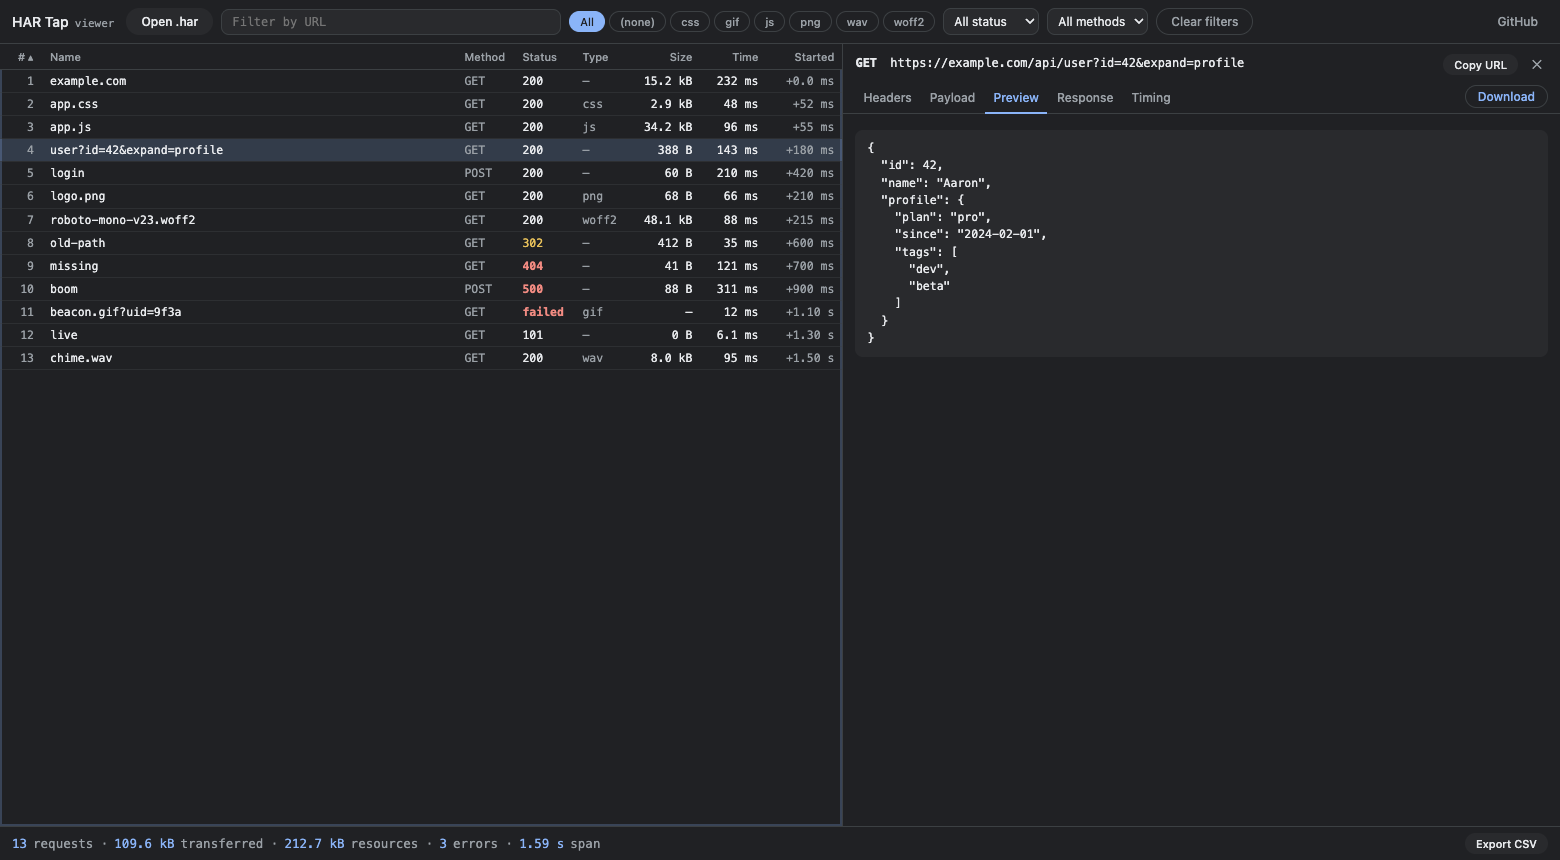
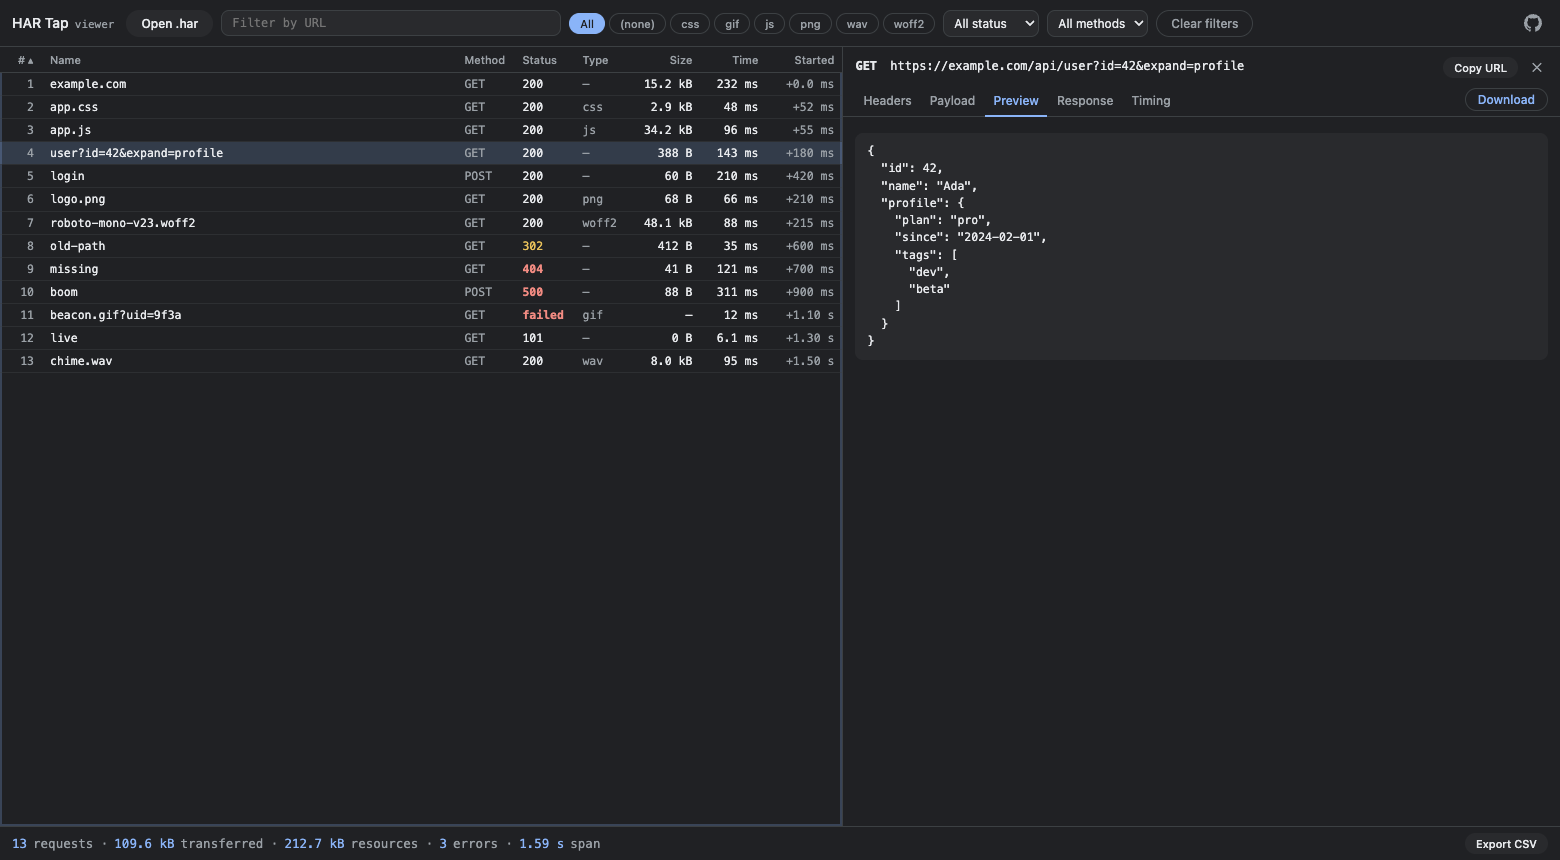
Throttling plugin: DevTools presets, honest stamping; de-id the fixture
Network throttling as the first real core/ plugin (plugins/throttle.js,
capture + popup sides in one module). Presets are Chrome DevTools' exact
emulateNetworkConditions values — Fast 4G / Slow 4G / 3G / Offline,
including the connectionType DevTools derives — applied to the root and
every OOPIF child session, with the popup select generated from the same
preset table.

Review fixes baked in:
- Offline no longer aborts the start: plugins can declare the initial
  navigation error expected (opts.tolerateNavError) since the failed
  load IS the data
- a failed emulate command can't leave a lying stamp: root failure
  clears the preset, child failures are counted (unthrottledFrames)
- log._throttling records label + the applied values, not just a name
  that drifts across Chrome versions
- popup seeds "Capturing…" from a real status poll, so plugin status
  fields are present from the first paint
- setOpt falls back to a select's first option when the persisted value
  no longer matches any <option>
- the plugin ships its own styling inside optionsHtml
- the preset label renders inline on BOTH status lines ("Capturing… ·
  Fast 4G" / "Stopped · … · Fast 4G") via one renderStatus seam — no
  separate panel

De-id: the synthetic fixture (and the README screenshot rendered from
it) no longer carries a personal name — Ada / user=demo.

diff --git a/test/throttle.test.js b/test/throttle.test.js
@@ -1,0 +1,95 @@
+// test/throttle.test.js — the throttling plugin: preset values must be byte-identical to what Chrome
+// DevTools sends over CDP (front_end/core/sdk/NetworkManager.ts, incl. connectionType), the capture
+// hooks must apply them to the root session and every OOPIF child, and a failed apply must not leave
+// a lying _throttling stamp behind. Run: npm test.
+import { test } from 'node:test';
+import assert from 'node:assert/strict';
+import { THROTTLE_PRESETS, throttleParams, throttleCapture, throttlePopup } from '../plugins/throttle.js';
+
+test('presets match Chrome DevTools NetworkManager values', () => {
+  assert.deepEqual(throttleParams(THROTTLE_PRESETS.fast4g),
+    { offline: false, latency: 165, downloadThroughput: 1012500, uploadThroughput: 168750, connectionType: 'cellular4g' });
+  assert.deepEqual(throttleParams(THROTTLE_PRESETS.slow4g),
+    { offline: false, latency: 562.5, downloadThroughput: 180000, uploadThroughput: 84375, connectionType: 'cellular4g' });
+  assert.deepEqual(throttleParams(THROTTLE_PRESETS['3g']),
+    { offline: false, latency: 2000, downloadThroughput: 50000, uploadThroughput: 50000, connectionType: 'cellular3g' });
+  assert.deepEqual(throttleParams(THROTTLE_PRESETS.offline),
+    { offline: true, latency: 0, downloadThroughput: 0, uploadThroughput: 0, connectionType: 'none' });
+});
+
+test('initSession: preset lookup, none, and the unknown-key rejection', () => {
+  const plug = throttleCapture();
+  const sess = {};
+  assert.equal(plug.initSession(sess, { throttle: 'slow4g' }), undefined);
+  assert.equal(sess.throttle.label, 'Slow 4G');
+  const none = {};
+  plug.initSession(none, {});                       // no option → no throttling
+  assert.equal(none.throttle, null);
+  assert.match(String(plug.initSession({}, { throttle: 'warp10' })), /unknown throttling preset/);
+});
+
+test('emulateNetworkConditions goes to the root AND each OOPIF child session', async () => {
+  const plug = throttleCapture();
+  const sess = {};
+  plug.initSession(sess, { throttle: 'slow4g' });
+  const calls = [];
+  const send = async (target, method, params) => calls.push({ target, method, params });
+  await plug.onRootAttach({ send, tabId: 7, sess });
+  await plug.onChildAttach({ send, child: { tabId: 7, sessionId: 's1' }, sess });
+  assert.equal(calls.length, 2);
+  assert.equal(calls[0].method, 'Network.emulateNetworkConditions');
+  assert.deepEqual(calls[0].target, { tabId: 7 });
+  assert.equal(calls[0].params.latency, 562.5);
+  assert.deepEqual(calls[1].target, { tabId: 7, sessionId: 's1' });
+  assert.deepEqual(calls[0].params, calls[1].params);
+  const off = {};
+  plug.initSession(off, { throttle: 'none' });      // unthrottled sessions must not send the command
+  await plug.onRootAttach({ send, tabId: 7, sess: off });
+  assert.equal(calls.length, 2);
+});
+
+test('a failed apply cannot leave a lying stamp: root failure clears, child failures are counted', async () => {
+  const plug = throttleCapture();
+  const failingSend = async () => { throw new Error('target closed'); };
+  const rootFail = {};
+  plug.initSession(rootFail, { throttle: '3g' });
+  await plug.onRootAttach({ send: failingSend, tabId: 7, sess: rootFail });
+  assert.equal(rootFail.throttle, null);            // honest: no throttle → no label, no stamp
+  assert.equal(plug.status(rootFail), null);
+  assert.equal(plug.finalize({ sess: rootFail, har: { log: {} } }), null);
+
+  const childFail = {};
+  plug.initSession(childFail, { throttle: '3g' });
+  await plug.onChildAttach({ send: failingSend, child: { tabId: 7, sessionId: 's1' }, sess: childFail });
+  assert.equal(childFail.throttleMisses, 1);
+  const har = { log: {} };
+  plug.finalize({ sess: childFail, har });
+  assert.equal(har.log._throttling.unthrottledFrames, 1);
+});
+
+test('finalize stamps label + the applied values; status reports the label', () => {
+  const plug = throttleCapture();
+  const sess = {};
+  plug.initSession(sess, { throttle: '3g' });
+  assert.deepEqual(plug.status(sess), { throttle: '3G' });
+  const har = { log: {} };
+  assert.deepEqual(plug.finalize({ sess, har }), { throttle: '3G' });
+  assert.deepEqual(har.log._throttling, {
+    label: '3G', offline: false, latency: 2000,
+    downloadThroughput: 50000, uploadThroughput: 50000, connectionType: 'cellular3g',
+  });
+  assert.equal(plug.finalize({ sess: { throttle: null }, har: { log: {} } }), null);
+  assert.equal(plug.status({ throttle: null }), null);
+});
+
+test('popup side: options are generated from the presets; offline opts into tolerateNavError', () => {
+  const plug = throttlePopup();
+  for (const [key, p] of Object.entries(THROTTLE_PRESETS)) {   // menu can't drift from the capture side
+    assert.ok(plug.optionsHtml.includes(`value="${key}"`), key);
+    assert.ok(plug.optionsHtml.includes(`>${p.label}<`), p.label);
+  }
+  const $for = (value) => () => ({ value });
+  assert.deepEqual(plug.startOpts($for('slow4g')), { throttle: 'slow4g' });
+  assert.deepEqual(plug.startOpts($for('none')), { throttle: 'none' });
+  assert.deepEqual(plug.startOpts($for('offline')), { throttle: 'offline', tolerateNavError: true });
+});

diff --git a/plugins/throttle.js b/plugins/throttle.js
@@ -1,0 +1,92 @@
+// plugins/throttle.js — DevTools-parity network throttling, written against the core plugin seams
+// (capture side + popup side in one module). The preset values are Chrome DevTools' own — copied from
+// Chromium front_end/core/sdk/NetworkManager.ts, i.e. exactly what the DevTools Network panel sends
+// over CDP Network.emulateNetworkConditions: throughput in bytes/s and latency in ms including
+// DevTools' adjustment factors, plus the connectionType it derives from each preset. No chrome.* at
+// module level: the presets and the capture hooks are unit-tested in Node (test/throttle.test.js).
+
+export const THROTTLE_PRESETS = {
+  fast4g: { label: 'Fast 4G', latency: 60 * 2.75, downloadThroughput: 9 * 1000 * 1000 / 8 * 0.9, uploadThroughput: 1.5 * 1000 * 1000 / 8 * 0.9, connectionType: 'cellular4g' },
+  slow4g: { label: 'Slow 4G', latency: 150 * 3.75, downloadThroughput: 1.6 * 1000 * 1000 / 8 * 0.9, uploadThroughput: 750 * 1000 / 8 * 0.9, connectionType: 'cellular4g' },
+  '3g': { label: '3G', latency: 400 * 5, downloadThroughput: 500 * 1000 / 8 * 0.8, uploadThroughput: 500 * 1000 / 8 * 0.8, connectionType: 'cellular3g' },
+  offline: { label: 'Offline', offline: true, latency: 0, downloadThroughput: 0, uploadThroughput: 0, connectionType: 'none' },
+};
+export const throttleParams = (p) => ({ offline: !!p.offline, latency: p.latency, downloadThroughput: p.downloadThroughput, uploadThroughput: p.uploadThroughput, connectionType: p.connectionType });
+
+// emulateNetworkConditions is PER SESSION: the same command goes to the root at attach and to every
+// OOPIF child — same rule as setCacheDisabled. A failed apply must not leave a lying stamp behind
+// (the whole point of _throttling is recording the TRUE conditions): a root failure clears the preset
+// so the capture is honestly unthrottled; child failures are counted into the stamp.
+async function applyConditions(send, target, sess, isRoot) {
+  if (!sess.throttle) return;
+  try {
+    await send(target, 'Network.emulateNetworkConditions', throttleParams(sess.throttle));
+  } catch (e) {
+    if (isRoot) {
+      sess.throttle = null;
+      console.warn('throttle: emulate failed on the root — capture runs UNthrottled', e);
+    } else {
+      sess.throttleMisses = (sess.throttleMisses || 0) + 1;
+      console.warn('throttle: emulate failed on an OOPIF child — that frame is unthrottled', e);
+    }
+  }
+}
+
+export function throttleCapture() {
+  return {
+    initSession(sess, opts) {
+      const key = opts.throttle || 'none';
+      if (key === 'none') { sess.throttle = null; return; }
+      const p = THROTTLE_PRESETS[key];
+      if (!p) return `unknown throttling preset: ${key}`;
+      sess.throttle = p;
+    },
+    onRootAttach: ({ send, tabId, sess }) => applyConditions(send, { tabId }, sess, true),
+    onChildAttach: ({ send, child, sess }) => applyConditions(send, child, sess, false),
+    status(sess) { return sess.throttle ? { throttle: sess.throttle.label } : null; },
+    finalize({ sess, har }) {
+      if (!sess.throttle) return null;
+      // Stamp the label AND the applied numbers: preset names drift across Chrome versions (Fast 3G
+      // became Slow 4G, with different values) — the numbers keep the file self-describing.
+      har.log._throttling = {
+        label: sess.throttle.label,
+        ...throttleParams(sess.throttle),
+        ...(sess.throttleMisses ? { unthrottledFrames: sess.throttleMisses } : {}),
+      };
+      return { throttle: sess.throttle.label };
+    },
+  };
+}
+
+// Popup-side plugin: the DevTools-style select (same menu structure: Disabled / Presets), persisted
+// and disabled-during-capture like the base options via optionIds. The presets optgroup is generated
+// from THROTTLE_PRESETS so the menu can't drift from the capture side, and the styling ships INSIDE
+// optionsHtml (against the host's CSS custom properties) so a consumer embedding this plugin in a
+// different popup gets a themed control without editing their host page.
+export function throttlePopup() {
+  const presets = Object.entries(THROTTLE_PRESETS)
+    .map(([key, p]) => `<option value="${key}">${p.label}</option>`).join('');
+  return {
+    optionsHtml: `
+      <style>
+        .row-label { justify-content: space-between; }
+        .row-label select { font: 12px var(--font); background: var(--surface); color: var(--text); border: 1px solid var(--border); border-radius: 8px; padding: 5px 8px; cursor: pointer; }
+        .row-label select:disabled { opacity: .6; cursor: default; }
+      </style>
+      <label class="row-label" for="throttle">Throttling
+        <select id="throttle">
+          <optgroup label="Disabled"><option value="none" selected>No throttling</option></optgroup>
+          <optgroup label="Presets">${presets}</optgroup>
+        </select>
+      </label>`,
+    optionIds: ['throttle'],
+    startOpts: ($) => {
+      const throttle = $('throttle').value;
+      // Offline makes the initial Page.navigate fail BY DESIGN — the failed load is the data —
+      // so tell the core that a navigate error is not a fatal start error.
+      return { throttle, ...(THROTTLE_PRESETS[throttle]?.offline ? { tolerateNavError: true } : {}) };
+    },
+    // one inline renderer for both lines: "Capturing… · Fast 4G" while live, "Stopped · … · Fast 4G" after
+    renderStatus: (st) => st.throttle ? ` · <b>${st.throttle}</b>` : '',
+  };
+}

diff --git a/core/popup-core.js b/core/popup-core.js
@@ -4,15 +4,16 @@
 // finishes; View (always present) opens the viewer. A finished capture is persisted (by the SW) so
 // View/Download survive closing/reopening the popup.
 //
-// This is the SHARED core. har-tap calls initPopup() with no plugins. A downstream consumer can pass a
-// popup plugin to add UI — extra option inputs and a results panel — through the seams below, without
-// copying this file. With no plugin every seam is inert, so the base popup is unchanged.
+// This is the SHARED core. har-tap calls initPopup() with the bundled throttle plugin (plugins/throttle.js).
+// A downstream consumer can pass more popup plugins to add UI — extra option inputs and a results panel —
+// through the seams below, without copying this file. With no plugin every seam is inert.
 //
 // Popup plugin surface (all optional):
 //   optionsHtml : string          — markup injected into #opt-slot (after the base checkboxes)
 //   optionIds   : string[]        — element ids to persist/restore alongside the base options
 //   startOpts($) : object         — extra fields merged into the { type:'start' } opts ($ = id → element)
-//   renderStatus(st) : string     — extra HTML appended to the live "Capturing…" line
+//   renderStatus(st) : string     — extra HTML appended inline to BOTH the live "Capturing…" line and
+//                                   the "Stopped" summary (st = live status or stop meta, same fields)
 //   renderReady(meta) : string    — HTML for #panel-slot shown in the ready state (and restored on reopen)
 //   reset()                       — clear any transient panel state (idle / clear / after download)
 
@@ -31,7 +32,14 @@ export function initPopup(config = {}) {
   const fmtBytes = (n) => n > 1e6 ? (n / 1e6).toFixed(1) + ' MB' : n > 1e3 ? (n / 1e3).toFixed(1) + ' kB' : n + ' B';
   // An option element persists its `.checked` (checkbox) or its `.value` (text/textarea).
   const getOpt = (el) => el && el.type === 'checkbox' ? el.checked : (el ? el.value : undefined);
-  const setOpt = (el, v) => { if (!el) return; if (el.type === 'checkbox') el.checked = !!v; else el.value = v ?? ''; };
+  const setOpt = (el, v) => {
+    if (!el) return;
+    if (el.type === 'checkbox') { el.checked = !!v; return; }
+    el.value = v ?? '';
+    // A persisted value that no longer matches any <option> (renamed preset, swapped plugin set)
+    // would leave a <select> blank (selectedIndex -1) — fall back to its first option instead.
+    if (el.selectedIndex === -1 && el.options?.length) el.selectedIndex = 0;
+  };
 
   let tab = null, capTabId = null, pollTimer = null, uiState = 'idle'; // idle | capturing | ready
 
@@ -41,7 +49,8 @@ export function initPopup(config = {}) {
   // The status box doubles as the error line: normal status vs. a red error, same block.
   const setStat = (html) => { const s = $('stat'); s.classList.remove('is-err'); s.innerHTML = html; };
   const setErr = (text) => { const s = $('stat'); s.classList.add('is-err'); s.textContent = text; };
-  const readyStat = (m) => `Stopped · <b>${m.count}</b> entries · wire <b>${fmtBytes(m.wireBytes)}</b>${m.includeBodies ? ` · bodies <b>${fmtBytes(m.bodyBytes)}</b>` : ''} · ${((m.sinceMs || 0) / 1000).toFixed(2)}s`;
+  const pluginStat = (m) => plugins.map((p) => (p.renderStatus ? p.renderStatus(m) || '' : '')).join('');
+  const readyStat = (m) => `Stopped · <b>${m.count}</b> entries · wire <b>${fmtBytes(m.wireBytes)}</b>${m.includeBodies ? ` · bodies <b>${fmtBytes(m.bodyBytes)}</b>` : ''} · ${((m.sinceMs || 0) / 1000).toFixed(2)}s${pluginStat(m)}`;
 
   // Plugins own #panel-slot: rendered from meta in the ready state, cleared otherwise.
   const setPanel = (meta) => { const el = $('panel-slot'); if (!el) return; el.innerHTML = plugins.map((p) => (p.renderReady && meta ? p.renderReady(meta) : '')).join(''); };
@@ -119,8 +128,7 @@ export function initPopup(config = {}) {
     if (!st || !st.capturing) { setStat('Idle'); return; }
     const frames = st.frames > 1 ? ` · <b>${st.frames}</b> frames` : '';
     const bodies = st.includeBodies ? ` · bodies <b>${fmtBytes(st.bodyBytes)}</b>` : ''; // only when embedding is on
-    const extra = plugins.map((p) => (p.renderStatus ? p.renderStatus(st) || '' : '')).join('');
-    setStat(`Capturing… <b>${st.count}</b> entries${frames} · wire <b>${fmtBytes(st.wireBytes)}</b>${bodies} · ${(st.sinceMs / 1000).toFixed(0)}s${extra}`);
+    setStat(`Capturing… <b>${st.count}</b> entries${frames} · wire <b>${fmtBytes(st.wireBytes)}</b>${bodies} · ${(st.sinceMs / 1000).toFixed(0)}s${pluginStat(st)}`);
   }
   function startPolling() {
     stopPolling();
@@ -142,7 +150,9 @@ export function initPopup(config = {}) {
     if (!r.ok) { setErr(r.error); return; }
     chrome.storage.local.remove([HAR_KEY, HAR_META_KEY]); // a new capture supersedes any saved one
     capTabId = r.tabId || capTabId;      // may be a fresh tab if the active page couldn't be attached
-    enterCapturing({ capturing: true, count: 0, wireBytes: 0, bodyBytes: 0, includeBodies: $('bodies').checked, sinceMs: 0 });
+    // Seed from a REAL status poll, not a synthetic object: statusOf() runs the plugins' status()
+    // contributions, so plugin fields (e.g. the throttle label) are present from the first paint.
+    enterCapturing(await msg({ type: 'status', tabId: capTabId }));
   }
 
   async function stop() {

diff --git a/core/capture-core.js b/core/capture-core.js
@@ -3,9 +3,9 @@
 // the assembled HAR back to the popup. chrome.debugger IS the CDP channel DevTools speaks, so
 // Network.enable + responseReceived/loadingFinished + getResponseBody map 1:1 onto the DevTools Network panel.
 //
-// This is the SHARED core. har-tap wires it with no plugins (background.js: createCapture()). A downstream
-// consumer can pass plugins that add extra behaviour through the hook seams below, WITHOUT copying this
-// file. With plugins:[] every seam is a no-op, so the base behaviour is byte-identical to the standalone tool.
+// This is the SHARED core. har-tap wires it with the bundled throttle plugin (plugins/throttle.js — also
+// the reference plugin). A downstream consumer can pass plugins that add extra behaviour through the hook
+// seams below, WITHOUT copying this file. With plugins:[] every seam is a no-op.
 //
 // Plugin hook surface (all optional, all wrapped so a throwing plugin can't break a capture):
 //   initSession(sess, opts) → truthy string aborts the start with that error (e.g. a rejected option)
@@ -181,7 +181,9 @@ export function createCapture(config = {}) {
         if (navUrl) {
           // Navigate to the user-supplied URL (may differ from the current tab) instead of reloading in place.
           const res = await send({ tabId }, 'Page.navigate', { url: navUrl }); // first request ≈ nav start
-          if (res && res.errorText) throw new Error('navigate failed: ' + res.errorText);
+          // opts.tolerateNavError (set by a plugin's startOpts): the nav is EXPECTED to fail and the failed
+          // load is the data — e.g. offline throttling — so don't turn it into a fatal start error.
+          if (res && res.errorText && !opts.tolerateNavError) throw new Error('navigate failed: ' + res.errorText);
         } else {
           await send({ tabId }, 'Page.reload', { ignoreCache: true }); // first request ≈ nav start
         }

diff --git a/background.js b/background.js
@@ -1,8 +1,9 @@
 // background.js — the MV3 service worker entry point. The whole capture engine lives in the shared
-// core (core/capture-core.js); har-tap wires it up with no plugins, so it's the plain chrome.debugger →
-// HAR tool. A downstream consumer can reuse core/ via a git submodule and pass plugins here to layer on
-// extra capture behaviour — see core/capture-core.js for the plugin hook surface.
+// core (core/capture-core.js); har-tap wires it with one bundled plugin (DevTools-parity network
+// throttling). A downstream consumer can reuse core/ via a git submodule and pass more plugins here —
+// see core/capture-core.js for the plugin hook surface.
 
 import { createCapture } from './core/capture-core.js';
+import { throttleCapture } from './plugins/throttle.js';
 
-createCapture({ plugins: [] });
+createCapture({ plugins: [throttleCapture()] });

diff --git a/popup.js b/popup.js
@@ -1,7 +1,8 @@
 // popup.js — the popup entry point. All the logic lives in the shared core (core/popup-core.js);
-// har-tap runs it with no plugins. A downstream consumer can reuse core/ via a git submodule and pass a
-// popup plugin here to add extra option inputs + a results panel — see core/popup-core.js for the seams.
+// har-tap runs it with one bundled plugin (the throttling select). A downstream consumer can reuse
+// core/ via a git submodule and pass more popup plugins here — see core/popup-core.js for the seams.
 
 import { initPopup } from './core/popup-core.js';
+import { throttlePopup } from './plugins/throttle.js';
 
-initPopup({ plugins: [] });
+initPopup({ plugins: [throttlePopup()] });

diff --git a/README.md b/README.md
@@ -47,6 +47,11 @@ If the active tab is a page `chrome.debugger` can't attach to (a `chrome://` set
 the button reads **Start in new tab** and captures the URL in a fresh tab instead — as long as *Reload on start*
 is on and a URL is filled in (that new tab needs somewhere to navigate).
 
+**Throttling**: the popup's Throttling select ships Chrome DevTools' own presets — **Fast 4G · Slow 4G ·
+3G · Offline**, the exact `Network.emulateNetworkConditions` values DevTools sends (bytes/s and ms,
+including its adjustment factors) — applied to the whole session, OOPIF frames included. The chosen preset
+is stamped into the HAR as `log._throttling`, so the file records the conditions it was captured under.
+
 A finished capture is saved (`chrome.storage.local`, hence `unlimitedStorage`), so **View**/**Download** still
 work after you close and reopen the popup. Starting a new capture or downloading clears it.
 
@@ -92,19 +97,21 @@ send CORS headers. Hosted or not, parsing stays entirely in the page — no HAR 
 | `core/har.js` | **pure** HAR-entry builder (no `chrome.*`, no Node) — unit-testable in isolation |
 | `core/capture-core.js` | the reusable capture engine: owns the `chrome.debugger` session, wires CDP events → `HarTap`, handles OOPIF auto-attach. Exposes plugin hook seams (see the file header) so a superset consumer can layer on features without forking it |
 | `core/popup-core.js` | the reusable popup engine: Start · Stop → Clear·Download·View, URL + option persistence, live counter, Blob download of `<host>.har`, with option-input / results-panel seams |
-| `background.js` / `popup.js` | thin entry points — wire the `core/` engines with **no plugins**, i.e. the plain tool |
+| `background.js` / `popup.js` | thin entry points — wire the `core/` engines with the bundled plugins below |
+| `plugins/throttle.js` | DevTools-parity network throttling (Fast 4G · Slow 4G · 3G · Offline, Chrome's exact CDP values), written against the `core/` plugin seams — doubles as the reference plugin |
 | `popup.html` | the popup markup (includes empty `#opt-slot` / `#panel-slot` a plugin fills) |
 | `index.html` + `viewer/viewer.js` / `.css` | the viewer page (the repo root IS the app — it doubles as the GitHub Pages site, no redirect): request table + resizable detail pane (Headers · Payload · Preview · Response · Timing), file-extension/status/method/text filters, sortable columns, stats footer. A **pure** web page — the only `chrome.*` touch is feature-detected storage read, so it also works from `file://` with drag-and-drop (classic scripts, no ES modules: Chrome blocks module imports on `file://`) |
 | `viewer/lib.js` | the viewer's **pure** helpers (formatting, URL/extension parsing, body classification, CSV) — no DOM, no `chrome.*`, loaded before `viewer.js` |
-| `test/` | `node:test` suites for `core/har.js` (CDP events → HAR) and `viewer/lib.js`; `npm test`, zero dependencies. `test/fixtures/sample.har` is a 13-entry HAR covering the type/status/body matrix (doubles as the viewer's `?har=` example) |
+| `test/` | `node:test` suites for `core/har.js` (CDP events → HAR), `viewer/lib.js` and `plugins/throttle.js`; `npm test`, zero dependencies. `test/fixtures/sample.har` is a 13-entry HAR covering the type/status/body matrix (doubles as the viewer's `?har=` example) |
 | `icons/` · `docs/` | extension + favicon PNGs (script-generated, no binary sources) · the README screenshot |
 | `.github/workflows/test.yml` | CI: `npm test` on every push/PR |
 
 `core/har.js`/`core/capture-core.js` and `viewer/lib.js`/`viewer/viewer.js` are split along the same "pure
 logic vs. browser glue" line: the pure halves run unchanged in Node, where `test/` exercises them — run
-`npm test` (Node's built-in `node:test`, no dependencies to install). The `core/` engines take plugin hooks
-but run with none here, so a superset build (e.g. via a git submodule of this repo) reuses `core/` verbatim
-and adds its layer through the seams rather than copying these files.
+`npm test` (Node's built-in `node:test`, no dependencies to install). The `core/` engines take plugin hooks —
+har-tap itself wires exactly one, the throttle plugin, which doubles as the reference implementation — so a
+superset build (e.g. via a git submodule of this repo) reuses `core/` verbatim and adds its layer through
+the same seams rather than copying these files.
 
 ## Byte accounting — the warm-cache trap
 